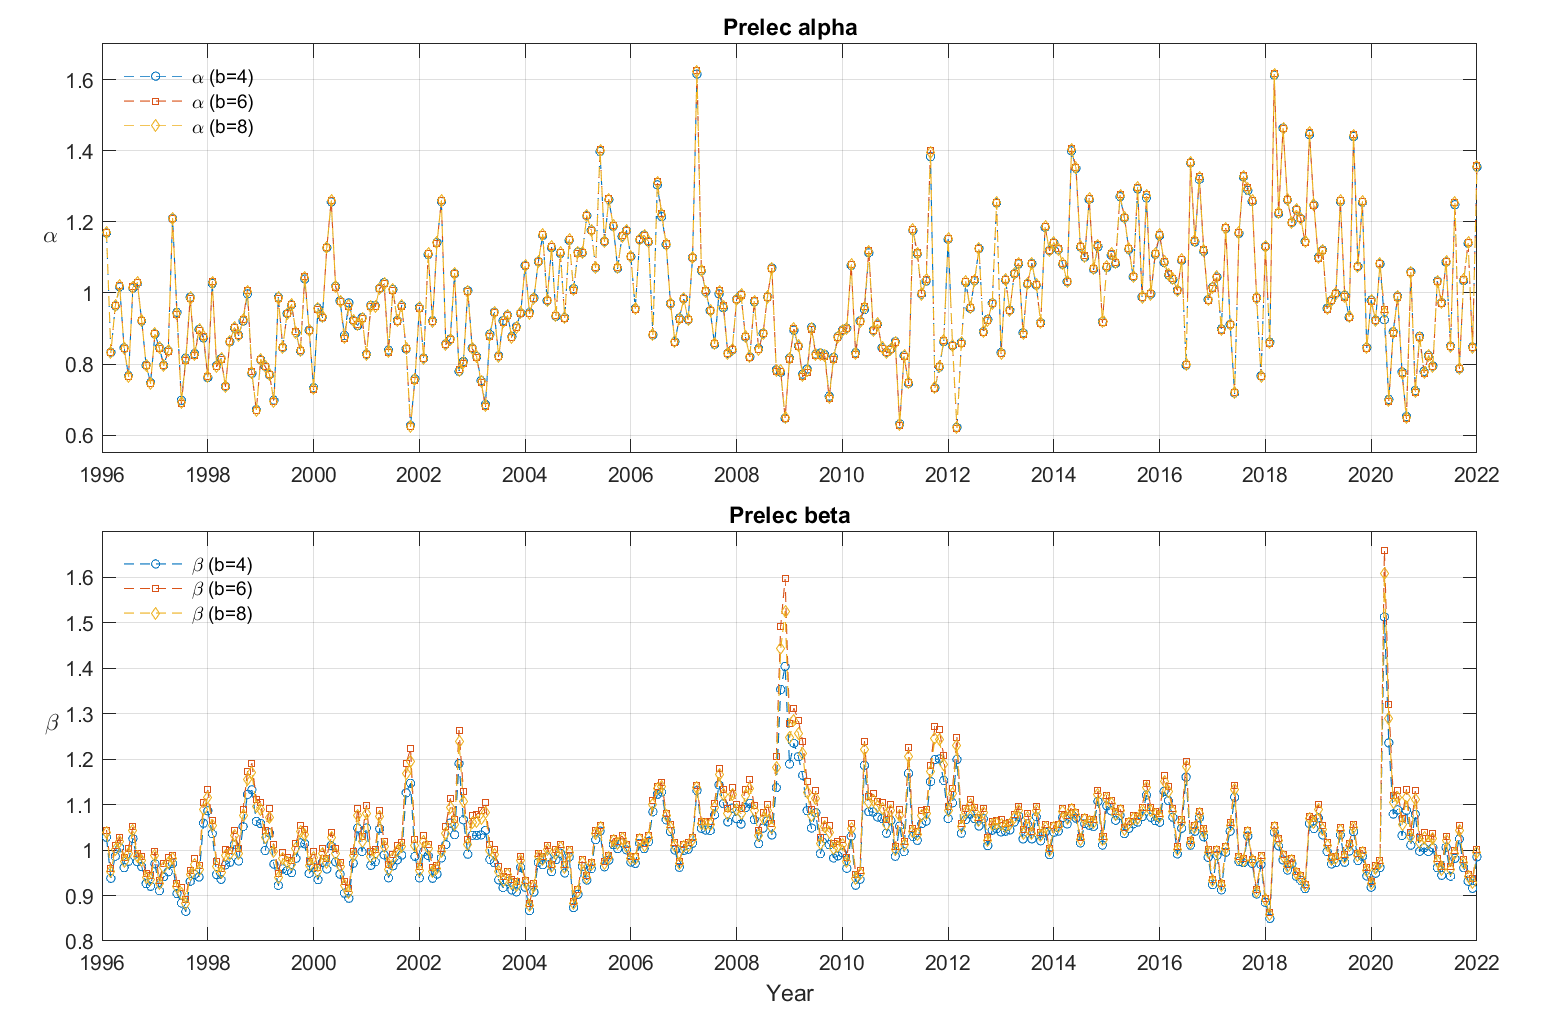
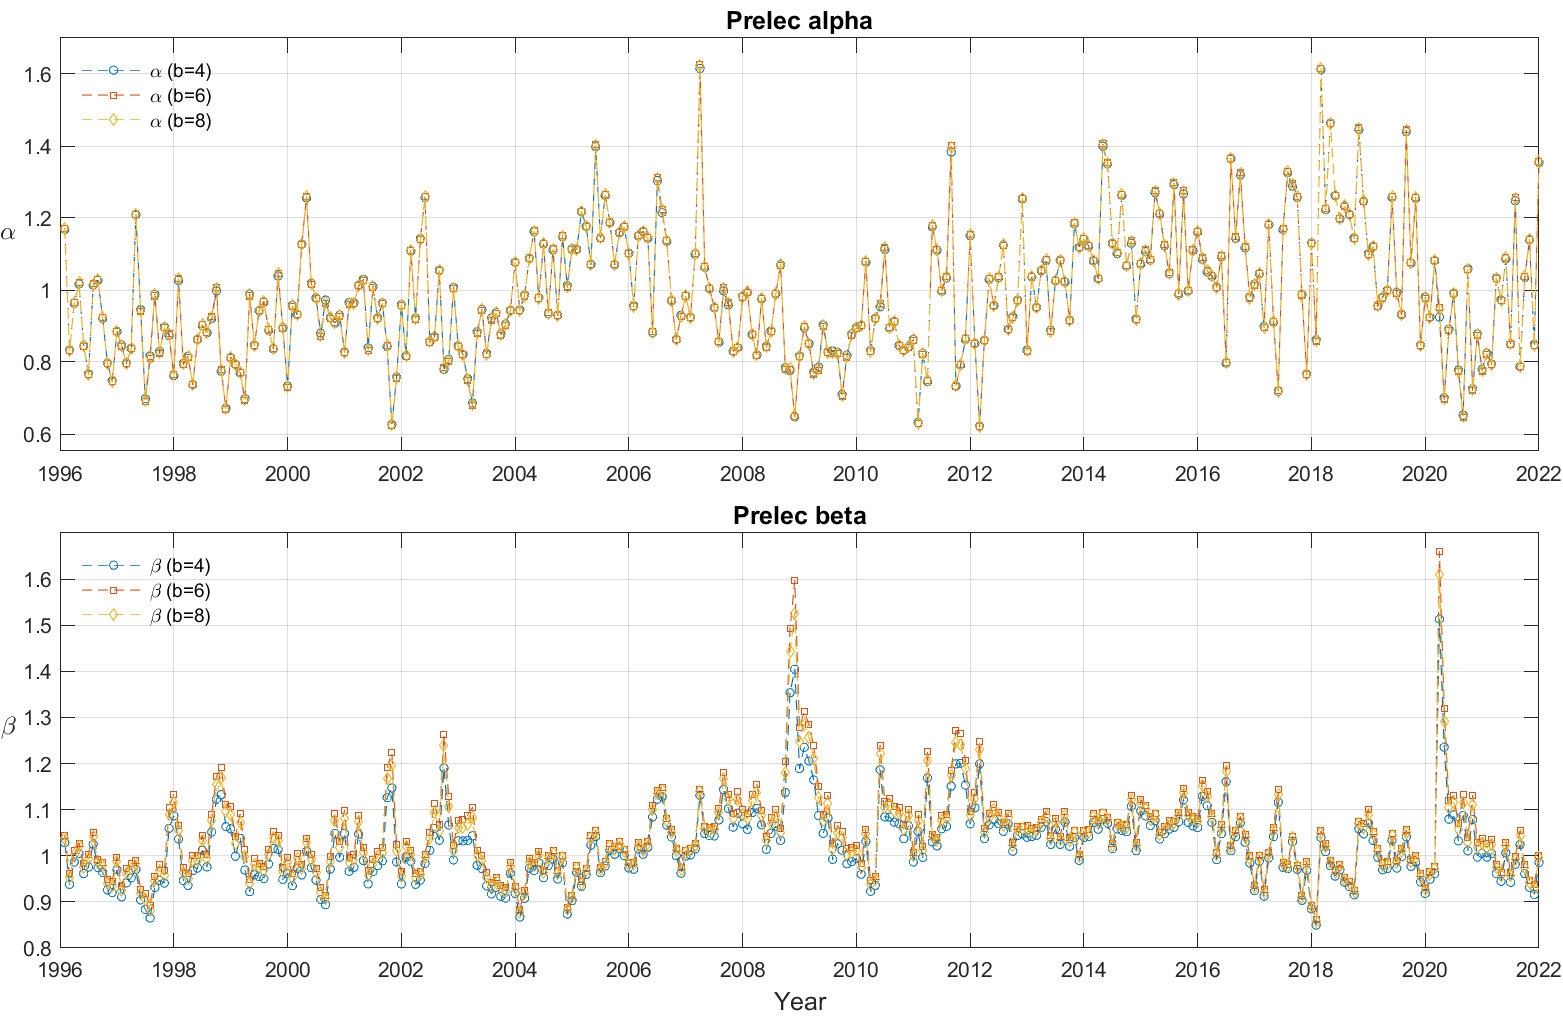
Add script for generating images for Beamer slides

diff --git a/08  變形函數（Distortion Function）/Procedure__Estimate_Distortion_Function_Parameters_Monthly.m b/08  變形函數（Distortion Function）/Procedure__Estimate_Distortion_Function_Parameters_Monthly.m
@@ -212,12 +212,18 @@ function D = Distortion(x, beta, alpha)
 end
 
 
+%% Plot - Beamer
+
+% Define Color (LaTeX Beamer Theme - Metropolis)
+mBackground = '#FAFAFA';
+
+
 %% Plot: Prelec parameters
 
 years_with_months = floor(Target_Date / 10000) + mod(floor(Target_Date / 100), 100) / 12;
 
 figure;
-layout = tiledlayout(2, 1, 'TileSpacing', 'Compact', 'Padding', 'Compact');
+layout = tiledlayout(2, 1, 'TileSpacing', 'Compact', 'Padding', 'None');
 
 % Prelec alpha
 nexttile;
@@ -226,8 +232,8 @@ hold on;
 plot(years_with_months, optimal_alpha(:, 2), '--s', 'DisplayName', '\alpha (b=6)', 'MarkerSize', 4, 'LineWidth', 0.2);
 plot(years_with_months, optimal_alpha(:, 3), '--d', 'DisplayName', '\alpha (b=8)', 'MarkerSize', 4, 'LineWidth', 0.2);
 hold off;
-title('Prelec alpha');
-ylabel('\alpha', 'Rotation', 0, 'HorizontalAlignment', 'right');
+title('Prelec alpha', 'FontSize', 12);
+ylabel('\alpha', 'Rotation', 0, 'HorizontalAlignment', 'right', 'FontSize', 12);
 legend('Location', 'northwest', 'Box', 'Off');
 xlim([1996, 2022]);
 ylim([0.55, 1.7]);
@@ -241,9 +247,9 @@ hold on;
 plot(years_with_months, optimal_beta(:, 2), '--s', 'DisplayName', '\beta (b=6)', 'MarkerSize', 4, 'LineWidth', 0.2);
 plot(years_with_months, optimal_beta(:, 3), '--d', 'DisplayName', '\beta (b=8)', 'MarkerSize', 4, 'LineWidth', 0.2);
 hold off;
-title('Prelec beta');
-xlabel('Year');
-ylabel('\beta', 'Rotation', 0, 'HorizontalAlignment', 'right');
+title('Prelec beta', 'FontSize', 12);
+xlabel('Year', 'FontSize', 12);
+ylabel('\beta', 'Rotation', 0, 'HorizontalAlignment', 'right', 'FontSize', 12);
 legend('Location', 'northwest', 'Box', 'Off');
 xlim([1996, 2022]);
 ylim([0.8, 1.7]);
@@ -254,6 +260,52 @@ set(gcf, 'Position', [50, 50, 1000, 650]);
 
 filename = 'Prelec_Parameters.png';
 saveas(gcf, fullfile(Path_Output, filename));
+clear filename
+
+
+%% Plot - Beamer: Prelec parameters
+
+years_with_months = floor(Target_Date / 10000) + mod(floor(Target_Date / 100), 100) / 12;
+
+figure;
+layout = tiledlayout(2, 1, 'TileSpacing', 'Compact', 'Padding', 'None');
+set(gcf, 'Color', mBackground);
+
+% Prelec alpha
+nexttile;
+plot(years_with_months, optimal_alpha(:, 1), '--o', 'DisplayName', '\alpha (b=4)', 'MarkerSize', 4, 'LineWidth', 0.2);
+hold on;
+plot(years_with_months, optimal_alpha(:, 2), '--s', 'DisplayName', '\alpha (b=6)', 'MarkerSize', 4, 'LineWidth', 0.2);
+plot(years_with_months, optimal_alpha(:, 3), '--d', 'DisplayName', '\alpha (b=8)', 'MarkerSize', 4, 'LineWidth', 0.2);
+hold off;
+title('Prelec alpha', 'FontName', 'Fira Sans', 'FontSize', 12);
+ylabel('\alpha', 'Rotation', 0, 'HorizontalAlignment', 'right', 'FontSize', 14);
+legend('Location', 'northwest', 'Box', 'Off');
+xlim([1996, 2022]);
+ylim([0.55, 1.7]);
+xticks(1996:2:2022);
+grid on;
+
+% Prelec beta
+nexttile;
+plot(years_with_months, optimal_beta(:, 1), '--o', 'DisplayName', '\beta (b=4)', 'MarkerSize', 4, 'LineWidth', 0.2);
+hold on;
+plot(years_with_months, optimal_beta(:, 2), '--s', 'DisplayName', '\beta (b=6)', 'MarkerSize', 4, 'LineWidth', 0.2);
+plot(years_with_months, optimal_beta(:, 3), '--d', 'DisplayName', '\beta (b=8)', 'MarkerSize', 4, 'LineWidth', 0.2);
+hold off;
+title('Prelec beta', 'FontName', 'Fira Sans', 'FontSize', 12);
+xlabel('Year', 'FontSize', 12);
+ylabel('\beta', 'Rotation', 0, 'HorizontalAlignment', 'right', 'FontSize', 14);
+legend('Location', 'northwest', 'Box', 'Off');
+xlim([1996, 2022]);
+ylim([0.8, 1.7]);
+xticks(1996:2:2022);
+grid on;
+
+set(gcf, 'Position', [50, 50, 1000, 650]);
+
+filename = 'Slide_Prelec_Parameters.png';
+exportgraphics(gcf, fullfile(Path_Output, filename), 'BackgroundColor', 'current');
 clear filename
 
 

diff --git a/04  風險偏好指標（Risk Preference）/Procedure__Risk_Preference.m b/04  風險偏好指標（Risk Preference）/Procedure__Risk_Preference.m
@@ -209,7 +209,7 @@ for idx = 1:3
     nexttile;
 
     hold on;
-    plot(y, store_g(idx, :), '.');
+    plot(y, store_g(idx, :), 'LineStyle', '--', 'LineWidth', 2, 'Color', 'r');
     title(['g(y), b = ', num2str((idx + 1) * 2)]);
     xlabel('y');
     ylabel('g(y)');
@@ -473,6 +473,12 @@ clear filename
 %% Plot - Beamer
 
 % Define Color (LaTeX Beamer Theme - Metropolis)
+mRed        = '#e74c3c';
+mDarkRed    = '#b22222';
+mLightBlue  = '#3279a8';
+mDarkBlue   = '#2c3e50';
+mDarkGreen  = '#4b8b3b';
+mOrange     = '#f39c12';
 mBackground = '#FAFAFA';
 
 
@@ -487,7 +493,7 @@ for idx = 1:3
     nexttile;
 
     hold on;
-    plot(y, store_g(idx, :), '.');
+    plot(y, store_g(idx, :), 'LineStyle', '--', 'LineWidth', 2, 'Color', 'r');
     title(['g(y), b = ', num2str((idx + 1) * 2)], 'FontName', 'Fira Sans', 'FontSize', 12);
     xlabel('y');
     ylabel('g(y)');
@@ -501,7 +507,7 @@ for idx = 1:3
     nexttile;
 
     hold on;
-    plot(y, store_g_prime(idx, :), '.');
+    plot(y, store_g_prime(idx, :), '.', 'Color', 'b');
     title(['g''(y), b = ', num2str((idx + 1) * 2)], 'FontName', 'Fira Sans', 'FontSize', 12);
     xlabel('y');
     ylabel('g''(y)');
@@ -515,7 +521,7 @@ for idx = 1:3
     nexttile;
 
     hold on;
-    plot(y, store_g_double_prime(idx, :), '.');
+    plot(y, store_g_double_prime(idx, :), '.', 'Color', 'b');
     title(['g''''(y), b = ', num2str((idx + 1) * 2)], 'FontName', 'Fira Sans', 'FontSize', 12);
     xlabel('y');
     ylabel('g''''(y)');
@@ -529,7 +535,7 @@ for idx = 1:3
     nexttile;
 
     hold on;
-    plot(y, store_g_triple_prime(idx, :), '.');
+    plot(y, store_g_triple_prime(idx, :), '.', 'Color', 'b');
     title(['g''''''(y), b = ', num2str((idx + 1) * 2)], 'FontName', 'Fira Sans', 'FontSize', 12);
     xlabel('y');
     ylabel('g''''''(y)');
